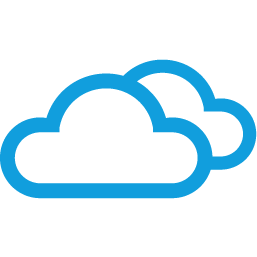
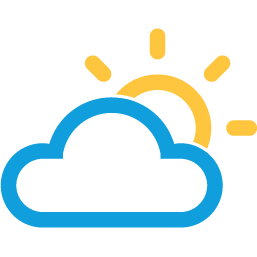
Works of day 17/06 Weather fine, Dolar, and another blocks.

diff --git a/src/app/blocos/tempo/tempo.component.html b/src/app/blocos/tempo/tempo.component.html
@@ -1,49 +1,61 @@
-<div *ngIf="tempo.forecast[0]" style="margin-top: -40px">
-  <img src="../../assets/img/{{tempo.description}}.{{tempo.currently}}.png"
-       style="height: 100px; margin-top: 40px; margin-right: 30px; alignment-baseline: center">
+<div *ngIf="tempo.forecast[0]" style="display: flex;  justify-content: center; align-items: center; margin-top: 4%">
+  <div style="display: inline-flex; padding-top: 6%; margin-right: 20px; margin-top: -10%; left: 20px;">
+
+    <img src="../../assets/img/{{tempo.description}}.{{tempo.currently}}.png"
+         style="height: 100px; margin-right: 6%; alignment-baseline: bottom">
+
+  </div>
 
   <div style="display: inline-block; text-align: left;">
-    <span style="font-size: 16pt; color: #0071bd; font-weight: bold">{{tempo.description}}</span>
+    <span style="float: left; font-size: 40px; color: #0071bd; margin-top: -12px; font-weight: bold">{{tempo.temp}}
+      ºC</span>
+    <div style="font-size: 13px; font-weight: bolder; color: #0071bb;">
+      <span style="padding-left: 10px">Máx {{tempo.forecast[0].max}}º</span>
+      <br>
+      <span style="padding-left: 10px">Mín {{tempo.forecast[0].min}}º</span>
+    </div>
+    <span style="font-size: 14px; color: #0071bd; font-weight: bold">{{tempo.description | uppercase}}</span>
     <br>
-    <span style="font-size: 14pt; color: #0071bd; font-weight: bold">No momento {{tempo.temp}}º</span>
+    <span style="font-weight: bolder; font-size: 12px">EM {{tempo.city_name | uppercase}}</span>
     <br>
-    <span style="font-weight: bolder; font-size: 10pt">{{tempo.city_name | uppercase}}</span>
-    <br>
-    <span style="font-size: 12pt">Máxima {{tempo.forecast[0].max}}º - Mínima {{tempo.forecast[0].min}}º</span>
+    <span style="font-size: 14px; color: #000000; font-weight: bold"><img height="8px"
+                                                                          src="../../../assets/img/iconeUmidade.svg"> {{tempo.humidity}}
+      % | <img height="8px" src="../../../assets/img/iconeWind.png"> {{tempo.wind_speedy}}
+    </span>
   </div>
 </div>
 
-<div class="forecast" style="margin-top: 15px">
+<div class="forecast">
 
-  <div class="forecastDays" style="margin-top: -5px">
+  <div class="forecastDays" style="margin-top: -2%">
     <span></span><br>
-    <span style="font-weight: bold">{{tempo.forecast[1].weekday | uppercase}} - {{tempo.forecast[1].date}}</span><br>
+    <span style="font-weight: bold; font-size: 14px">{{tempo.forecast[1].weekday | uppercase}}</span><br>
     <img src="../../assets/img/{{tempo.forecast[1].description}}.dia.png"
          style="height: 40px; margin-top: 5px; margin-right: 10px">
-    <div style="display: inline-block; font-size: 11pt; font-weight: bold">
+    <div style="display: inline-block; font-size: 14px; font-weight: bold">
       <span>{{tempo.forecast[1].max}}º</span><br>
       <span>{{tempo.forecast[1].min}}º</span>
     </div>
   </div>
 
-  <div class="forecastDays" style="margin-top: -5px">
+  <div class="forecastDays" style="margin-top: -2%">
     <span></span><br>
-    <span style="font-weight: bold">{{tempo.forecast[2].weekday | uppercase}} - {{tempo.forecast[2].date}}</span><br>
+    <span style="font-weight: bold; font-size: 14px">{{tempo.forecast[2].weekday | uppercase}}</span><br>
     <img src="../../assets/img/{{tempo.forecast[2].description}}.dia.png"
          style="height: 40px; margin-top: 5px; margin-right: 10px">
-    <div style="display: inline-block; font-size: 11pt; font-weight: bold">
+    <div style="display: inline-block; font-size: 14px; font-weight: bold">
       <span>{{tempo.forecast[2].max}}º</span><br>
       <span>{{tempo.forecast[2].min}}º</span>
     </div>
   </div>
 
-  <div class="forecastDays" style="margin-top: -5px">
+  <div class="forecastDays" style="margin-top: -2%">
     <span></span><br>
-    <span style="font-weight: bold">{{tempo.forecast[3].weekday | uppercase}} - {{tempo.forecast[3].date}}</span><br>
+    <span style="font-weight: bold; font-size: 14px">{{tempo.forecast[3].weekday | uppercase}}</span><br>
     <div style="margin-top: -10px">
       <img src="../../assets/img/{{tempo.forecast[3].description}}.dia.png"
            style="height: 40px; margin-top: 15px; margin-right: 10px">
-      <div style="display: inline-block; font-size: 11pt; font-weight: bold">
+      <div style="display: inline-block; font-size: 14px; font-weight: bold">
         <span>{{tempo.forecast[3].max}}º</span><br>
         <span>{{tempo.forecast[3].min}}º</span>
       </div>

diff --git a/src/app/noticias/noticias.component.html b/src/app/noticias/noticias.component.html
@@ -5,36 +5,39 @@
 
 
     <!--AQUI COMEÇA OS NOTICIAS, JUNTAMENTE COM A PREVISÃO DO TEMPO, COTAÇÃO DO DÓLAR E AGENDA DA SKA-->
-    <div class="weasley principal">
+    <div class="weasley principal news">
       <img src="../../assets/img/carro.jpg" style="width: 100%; height: 65%; border-radius: 10px;">
       <span></span><br><br>
       <span class="weasleydataGrande">19 de dezembro de 2018</span><br>
       <h2 class="weasleytituloGrande">SKA anuncia nova frota de caminhões vindo da Alemanha. Ó o 7x1</h2>
     </div>
 
-    <div class="weasley">
+    <div class="weasley news">
       <img src="../../assets/img/FOTO.TESTE.JPG" style="width: 100%; height: 60%; border-radius: 10px;">
       <span></span><br>
       <span class="weasleydataPequeno">19 de setembro de 2018</span><br>
       <span class="weasleyTituloPequeno">Múltiplos corpos: Eu entendi a referência</span>
     </div>
 
-    <div class="weasley">
-      aaa
+    <div class="weasley news">
+      <img src="../../assets/img/FOTO.TESTE.JPG" style="width: 100%; height: 60%; border-radius: 10px;">
+      <span></span><br>
+      <span class="weasleydataPequeno">19 de setembro de 2018</span><br>
+      <span class="weasleyTituloPequeno">Múltiplos corpos: Eu entendi a referência</span>
     </div>
 
     <div class="weasley clima separated">
       <app-tempo></app-tempo>
     </div>
 
-    <div class="weasley">
+    <div class="weasley news">
       <img src="../../assets/img/FOTO.TESTE.JPG" style="width: 100%; height: 60%; border-radius: 10px;">
       <span></span><br>
       <span class="weasleydataPequeno">19 de setembro de 2018</span><br>
       <span class="weasleyTituloPequeno">Múltiplos corpos: Eu entendi a referênciaMúltiplos</span>
     </div>
 
-    <div class="weasley">
+    <div class="weasley news">
       <img src="../../assets/img/FOTO.TESTE.JPG" style="width: 100%; height: 60%; border-radius: 10px;">
       <span></span><br>
       <span class="weasleydataPequeno">19 de setembro de 2018</span><br>
@@ -48,31 +51,31 @@
     <div class="weasley events separated">
       <app-eventos></app-eventos>
       <div
-        style="position: relative; background-color: #f4f2f2; height: 200px; margin-top: 80px; border-radius: 10px"></div>
+        style="position: relative; background-color: #f4f2f2; height: 73%; margin-top: 20%; border-radius: 10px"></div>
     </div>
 
-    <div class="weasley">
+    <div class="weasley news">
       <img src="../../assets/img/FOTO.TESTE.JPG" style="width: 100%; height: 60%; border-radius: 10px;">
       <span></span><br>
       <span class="weasleydataPequeno">19 de setembro de 2018</span><br>
       <span class="weasleyTituloPequeno">Múltiplos corpos: Eu entendi a referência</span>
     </div>
 
-    <div class="weasley">
+    <div class="weasley news">
       <img src="../../assets/img/FOTO.TESTE.JPG" style="width: 100%; height: 60%; border-radius: 10px;">
       <span></span><br>
       <span class="weasleydataPequeno">19 de setembro de 2018</span><br>
       <span class="weasleyTituloPequeno">Múltiplos corpos: Eu entendi a referência</span>
     </div>
 
-    <div class="weasley">
+    <div class="weasley news">
       <img src="../../assets/img/FOTO.TESTE.JPG" style="width: 100%; height: 60%; border-radius: 10px;">
       <span></span><br>
       <span class="weasleydataPequeno">19 de setembro de 2018</span><br>
       <span class="weasleyTituloPequeno">Múltiplos corpos: Eu entendi a referência</span>
     </div>
 
-    <div class="weasley">
+    <div class="weasley news">
       <img src="../../assets/img/FOTO.TESTE.JPG" style="width: 100%; height: 60%; border-radius: 10px;">
       <span></span><br>
       <span class="weasleydataPequeno">19 de setembro de 2018</span><br>

diff --git a/src/app/aniversarios2/aniversarios2.component.html b/src/app/aniversarios2/aniversarios2.component.html
@@ -1,5 +1,6 @@
 <!-------------------------------ANIVERSARIANTES DA SEMANA-------------------------------------------->
-<div class="row semEspaco " style="height:100%; padding:1%; margin-top: -20px; background-color: #00a2ff">
+<div class="row semEspaco "
+     style="height:100%; padding:1%; margin-top: -20px; background: linear-gradient(to right, #42a7f5, #2d509c)">
 
   <div class="col-sm-6" style="height:100%; top: 1px;">
     <div id="minha-historia-esquerda">
@@ -8,8 +9,8 @@
           <div class="col-md-1">
             <img src="../../assets/img/IconeAniversariantesDaSemana.svg"/>
           </div>
-          <div class="col-md-6" style="margin-left: 10px">
-            <h3 class="centro">Aniversariantes da Semana</h3>
+          <div class="col-md-6" style="margin-left: 10px;">
+            <h3 class="centro" style="color: white;">Aniversariantes da Semana</h3>
           </div>
         </div>
       </div>
@@ -18,23 +19,14 @@
   <!--------------------------------------------------------------------------------------------------------->
   <div class="col-sm-12">
     <div class="row"
-         style="align-items: center; display: flex; flex-direction: row; flex-wrap: wrap; justify-content: center;">
+         style="align-items: center; color: white; display: flex; flex-direction: row; flex-wrap: wrap; justify-content: center;">
 
       <div *ngFor="let ani of aniver" class="col-2 aniversariantes" style="text-align: center;">
         <img class="rounded-circle" src="{{ani.imagem}}"
              style="width:180px; height: 180px"/>
         <h4
-          style="margin-top: 15px; color: white; font-size: 14pt;">{{ani.nm_nome}}</h4>
+          style="margin-top: 15px; font-weight: bold; font-size: 14pt;">{{ani.nm_nome}}</h4>
         <p style="font-size: 10pt">{{ani.ds_aniversario}}<br>{{ani.ds_cargo}}<br>{{ani.nm_filial}}</p>
-        <br>
-      </div>
-      <div *ngFor="let ani of aniver" class="col-2 aniversariantes" style="text-align: center;">
-        <img class="rounded-circle" src="{{ani.imagem}}"
-             style="width:180px; height: 180px"/>
-        <h4
-          style="margin-top: 15px; color: white; font-size: 14pt;">{{ani.nm_nome}}</h4>
-        <p style="font-size: 10pt">{{ani.ds_aniversario}}<br>{{ani.ds_cargo}}<br>{{ani.nm_filial}}</p>
-        <br>
       </div>
     </div>
   </div>

diff --git a/src/app/aniversario-ska/aniversario-ska.component.html b/src/app/aniversario-ska/aniversario-ska.component.html
@@ -1,4 +1,4 @@
-<div *ngIf="aniver" class="row" style="background-color: #97d2d5">
+<div *ngIf="aniver" class="row" style="background-color: #ffffff">
 
 
   <div class="col-md-12" style="margin-top: 20px">
@@ -10,21 +10,13 @@
 
   <div class="col-sm-12" style="margin-top: 30px">
     <div class="row"
-         style="align-items: center; display: flex; flex-direction: row; flex-wrap: wrap; justify-content: center;">
+         style="align-items: center; display: flex; flex-direction: row; flex-wrap: wrap; justify-content: center; padding: 30px">
 
       <div *ngFor="let ani of aniver" class="col-2 aniversariantes" style="text-align: center;">
         <img class="rounded-circle" src="{{ani.imagem}}"
              style="width:180px; height: 180px"/>
         <h4
-          style="margin-top: 15px; color: white; font-size: 14pt;">{{ani.nm_nome}}</h4>
-        <p style="font-size: 10pt">{{ani.ds_aniversario}}<br>{{ani.ds_cargo}}<br>{{ani.nm_filial}}</p>
-        <br>
-      </div>
-      <div *ngFor="let ani of aniver" class="col-2 aniversariantes" style="text-align: center;">
-        <img class="rounded-circle" src="{{ani.imagem}}"
-             style="width:180px; height: 180px"/>
-        <h4
-          style="margin-top: 15px; color: white; font-size: 14pt;">{{ani.nm_nome}}</h4>
+          style="margin-top: 15px; font-weight: bolder; font-size: 14pt;">{{ani.nm_nome}}</h4>
         <p style="font-size: 10pt">{{ani.ds_aniversario}}<br>{{ani.ds_cargo}}<br>{{ani.nm_filial}}</p>
         <br>
       </div>

diff --git a/src/app/minha-historia/minha-historia.component.html b/src/app/minha-historia/minha-historia.component.html
@@ -1,7 +1,7 @@
 <!-------------------------------DEPOIMENTOS SKA-------------------------------------------->
 
 
-<div class="depoimentos" id="minha-historia" style="padding:20px; background-color: #E2E2E2; margin-top: -25px;">
+<div class="depoimentos" id="minha-historia" style="padding:20px; background-color: #e1e1e1; margin-top: -25px;">
   <div class="row">
     <div class="col-md-12">
       <img alt="" src="../../assets/img/IconeMInhaHistóriaSKA.svg" style="position: absolute; width: 50px;">
@@ -16,7 +16,7 @@
       <div id="minha-historia-esquerda">
         <div class="row">
 
-          <div>
+          <div style="float: left">
             <img class="rounded-circle" style="width:320px;  margin-top: -140px; margin-bottom: 30px;"
                  src="https://media.licdn.com/dms/image/C4D0BAQG0qOg5DyzwPw/company-logo_200_200/0?e=2159024400&v=beta&t=J5lU5pdHgiSO49iJGlzNHru3vKnH3KM_wD9XkT8XycA" />
             <div class="col-5" style="display: inline-block; height: 320px; margin-top: 80px">
@@ -33,7 +33,7 @@
               </div>
             </div>
           </div>
-          <div>
+          <div style="float: left">
             <img class="rounded-circle"
                  src="https://media.licdn.com/dms/image/C4D0BAQG0qOg5DyzwPw/company-logo_200_200/0?e=2159024400&v=beta&t=J5lU5pdHgiSO49iJGlzNHru3vKnH3KM_wD9XkT8XycA"
                  style="width:320px;  margin-top: -140px; margin-bottom: 30px;"/>

diff --git a/src/app/blocos/dolar/dolar.component.html b/src/app/blocos/dolar/dolar.component.html
@@ -1,16 +1,17 @@
-  <div style="padding: 26px; position: absolute">
-    <img align="center" src="../../assets/img/MenuDolar.svg" style="width: 110px;">
+<div style="padding: 2%; position: absolute">
+  <img align="center" src="../../assets/img/MenuDolar.svg" style="width: 100px;">
   </div>
-  <div style="vertical-align: 35px; margin-top: -5px; padding-left: 160px; font-size: 14pt; position: absolute">
+<div
+  style="vertical-align: 35px; margin-top: -5px; padding-left: 160px; font-size: 14pt; position: absolute; text-align: left">
       <span *ngIf="dolar">
         <p>
-          <b>Dólar Turismo</b>
+          <b style="color: #0871bd">Dólar Turismo</b>
         <br>
           {{dolar[0].ds_moeda}} - Real brasileiro
         </p>
 
         <p>
-        <b>Dólar Comercial</b>
+        <b style="color: #0871bd">Dólar Comercial</b>
         <br>
           {{dolar[1].ds_moeda}} - Real brasileiro
         </p>

diff --git a/src/app/noticias/noticias.component.css b/src/app/noticias/noticias.component.css
@@ -50,18 +50,14 @@
   text-align: center;
 }
 
-.weasley:hover {
-  background-color: #e1e1e1;
+.weasley.news:hover {
+  transform: scale(1.02);
 }
 
 .weasley.principal {
   grid-column: span 2;
   grid-row: span 8;
   padding: 15px;
-}
-
-.weasley.separated:hover {
-  transform: scale(1.02);
 }
 
 .weasley.clima {
@@ -115,7 +111,7 @@
   flex-direction: row;
   flex-wrap: wrap;
   justify-content: center;
-  background-color: #f1f1f1;
+  background-color: #ffffff;
 }
 
 .snape {
@@ -150,12 +146,6 @@
   font-family: "Segoe UI", sans-serif;
   font-size: 11pt;
   text-align: center;
-}
-
-.verde:hover {
-  background: #ffff00;
-  color: #ff0400;
-
 }
 
 #notes {

diff --git a/src/index.html b/src/index.html
@@ -22,7 +22,7 @@
     <img src="./assets/img/LogoTarget.svg" style="width: 180px;"/>
 </a>
 
-  <div class="fixed-action-btn " id="btnc" style="position: fixed; top: 40px; right: 40px;">
+  <div class="fixed-action-btn " id="btnc" style="position: fixed; top: 40px; right: 40px; height: 50px">
     <a class="btn-floating btn-large tooltipped menu" data-position="left" data-tooltip="Menu"
        style="text-align: center; align-items: center;">
       <img src="assets/img/Menu3Pontinhos.svg">

diff --git a/src/app/blocos/tempo/tempo.component.css b/src/app/blocos/tempo/tempo.component.css
@@ -18,7 +18,7 @@
   font-family: "Segoe UI Light", cursive;
   height: 95vh;
   max-height: 1024px;
-  width: 1200px;
+  min-width: 1200px;
   max-width: 1920px;
   border-radius: 5px;
   overflow: hidden;
@@ -46,7 +46,6 @@
 
 .forecastDays:hover {
   background-color: #f0f0f0;
-  transform: scale(1.1);
 }
 
 .weasley {

diff --git a/src/app/blocos/eventos/eventos.component.css b/src/app/blocos/eventos/eventos.component.css
@@ -20,8 +20,7 @@
 
 .eventos {
   display: block;
-  margin-top: 50px;
   border-radius: 10px;
-  height: 80%;
+  height: 20%;
   background-color: #00a2ff;
 }
